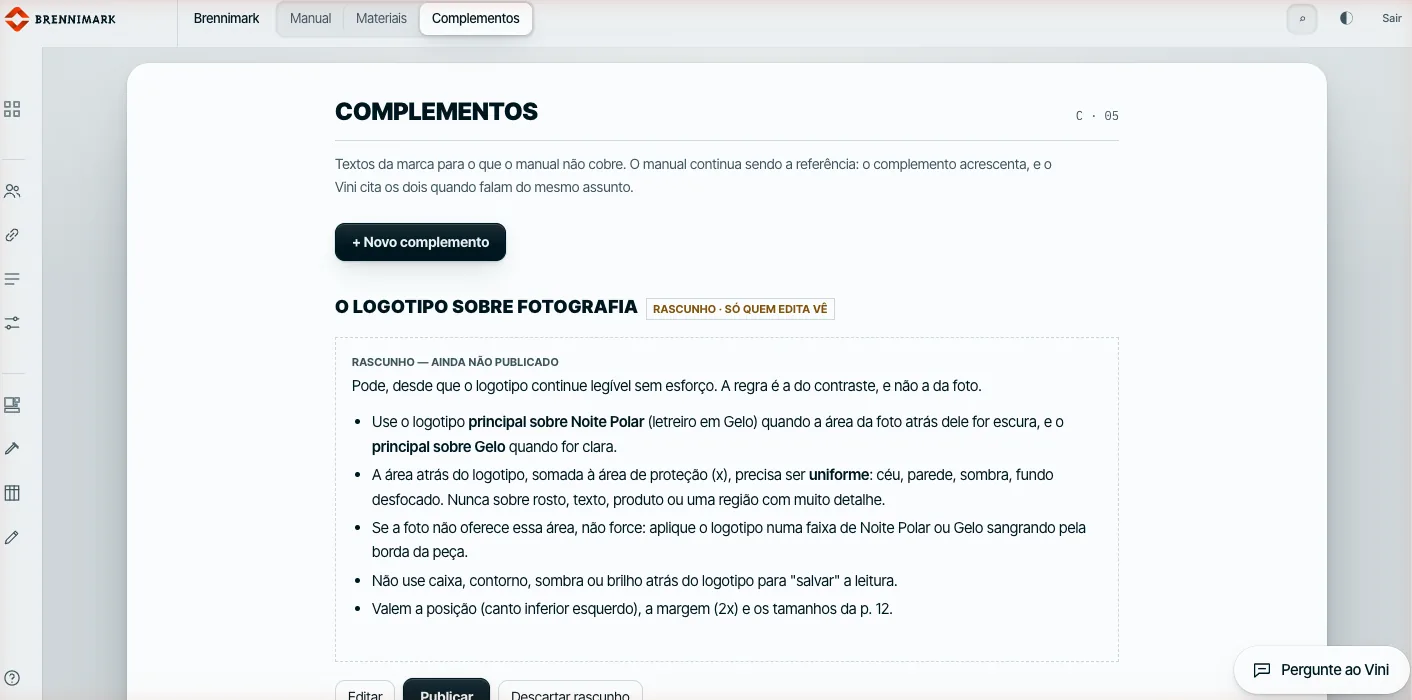
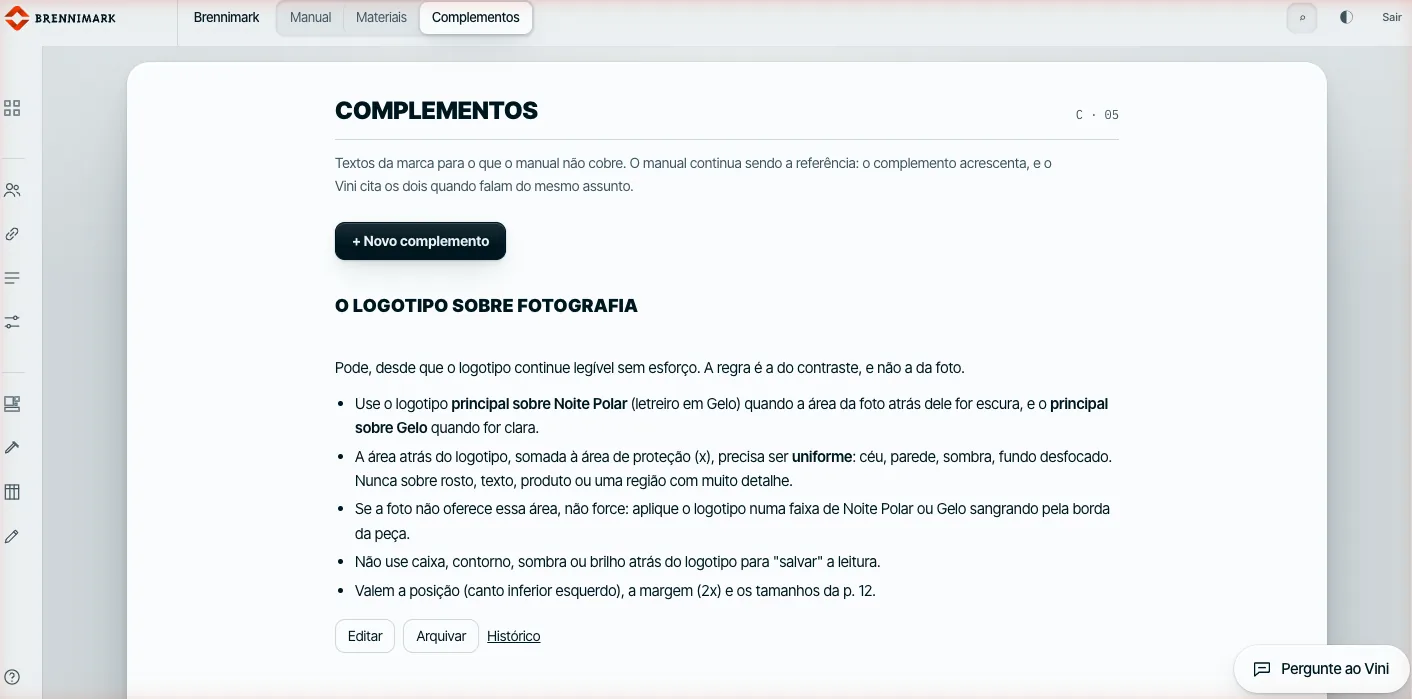
feat(site): Regras novas mostra a regra publicada e o Vini citando-a; lupas redesenhadas iguais às da plataforma
- Regras novas: a tela abre nos complementos já publicados e, em fade, passa
  para o assistente respondendo "posso colocar o logo em cima de uma foto?"
  e citando o complemento (selo PRONTO) ao lado da página do manual
  (selo RASCUNHO). Capturas de produção de 23/10.
- Lupas: um detalhe REDESENHADO em HTML, igual ao da plataforma (mesmos
  textos, cores e pesos de letra), ampliado para ler no tamanho do site; a
  captura é de 1x e ampliada borra. Na Regras novas (a citação) e na
  Revisão de peças (o selo "Desalinhada" e a violação de margem).
- `.troca`: segunda captura que entra em fade; sem movimento, a segunda é a
  que fica.

diff --git a/src/components/site/TelasDaHome.tsx b/src/components/site/TelasDaHome.tsx
@@ -1,5 +1,5 @@
 import Image, { type StaticImageData } from "next/image";
-import type { CSSProperties } from "react";
+import type { CSSProperties, ReactNode } from "react";
 import vini from "./imagens/vini.webp";
 import telaManual from "./imagens/telas/manual.webp";
 import telaAssistente from "./imagens/telas/assistente.webp";
@@ -8,6 +8,7 @@ import telaPrompt from "./imagens/telas/prompt.webp";
 import telaMateriais from "./imagens/telas/materiais.webp";
 import telaEnvio from "./imagens/telas/envio.webp";
 import telaComplementos from "./imagens/telas/complementos.webp";
+import telaViniComplemento from "./imagens/telas/vini-complemento.webp";
 
 /**
  * As telas do tour da home (22/10/2026): capturas REAIS da plataforma, feitas
@@ -47,30 +48,62 @@ function camera(foco: Foco | undefined, w: number, h: number): CSSProperties | u
   return { ...passo(foco.n), "--z": z, "--alvo": `translate(${tx}%, ${ty}%) scale(${z})` } as CSSProperties;
 }
 
-function TelaReal({ src, alt, destaques, foco }: { src: StaticImageData; alt: string; destaques: Destaque[]; foco?: Foco }) {
+type Quadro = { src: StaticImageData; alt: string; destaques: Destaque[]; foco?: Foco };
+
+function Camada({ src, alt, destaques, foco }: Quadro) {
   const pct = (v: number, total: number) => `${(v / total) * 100}%`;
   return (
+    <div className={foco ? "tela-camera" : "tela-quieta"} style={camera(foco, src.width, src.height)}>
+      <Image src={src} alt={alt} sizes="(max-width: 1023px) 100vw, 60vw" />
+      {destaques.map(({ caixa: [x0, y0, x1, y1], n, rotulo }) => (
+        <span
+          key={`${x0}-${y0}`}
+          className="destaque passo"
+          aria-hidden="true"
+          // O rótulo vai por baixo quando a caixa encosta no topo, e alinha
+          // pela direita quando ela está na metade direita da tela.
+          data-abaixo={y0 / src.height < 0.08 ? "" : undefined}
+          data-direita={x0 / src.width > 0.5 ? "" : undefined}
+          style={{ ...passo(n), left: pct(x0, src.width), top: pct(y0, src.height), width: pct(x1 - x0, src.width), height: pct(y1 - y0, src.height) }}
+        >
+          {rotulo ? <em>{rotulo}</em> : null}
+        </span>
+      ))}
+    </div>
+  );
+}
+
+/**
+ * Uma tela real, com destaques e câmera. `depois` é uma segunda captura que
+ * entra por cima, em fade, no passo `n` — a mesma tela noutro momento (a regra
+ * publicada e, em seguida, o assistente citando a regra). `lupa` é um detalhe
+ * REDESENHADO, fiel ao da plataforma (mesmos textos, cores e tamanhos de
+ * letra), ampliado para ler no tamanho em que o site mostra a tela.
+ */
+function TelaReal({ src, alt, destaques, foco, depois, lupa }: Quadro & { depois?: Quadro & { n: number }; lupa?: ReactNode }) {
+  return (
     <div className="frame tela-real">
-      <div className="tela-real-img">
-        <div className={foco ? "tela-camera" : undefined} style={camera(foco, src.width, src.height)}>
-          <Image src={src} alt={alt} sizes="(max-width: 1023px) 100vw, 60vw" />
-          {destaques.map(({ caixa: [x0, y0, x1, y1], n, rotulo }) => (
-            <span
-              key={`${x0}-${y0}`}
-              className="destaque passo"
-              aria-hidden="true"
-              // O rótulo vai por baixo quando a caixa encosta no topo, e alinha
-              // pela direita quando ela está na metade direita da tela.
-              data-abaixo={y0 / src.height < 0.08 ? "" : undefined}
-              data-direita={x0 / src.width > 0.5 ? "" : undefined}
-              style={{ ...passo(n), left: pct(x0, src.width), top: pct(y0, src.height), width: pct(x1 - x0, src.width), height: pct(y1 - y0, src.height) }}
-            >
-              {rotulo ? <em>{rotulo}</em> : null}
-            </span>
-          ))}
-        </div>
+      <div className="tela-real-img" style={{ aspectRatio: `${src.width} / ${src.height}` }}>
+        <Camada src={src} alt={alt} destaques={destaques} foco={foco} />
+        {depois ? (
+          <div className="troca" style={passo(depois.n)}>
+            <Camada src={depois.src} alt={depois.alt} destaques={depois.destaques} foco={depois.foco} />
+          </div>
+        ) : null}
+        {lupa}
       </div>
     </div>
+  );
+}
+
+/** O trecho de uma resposta do assistente, como a plataforma o desenha. */
+function Citacao({ rotulo, titulo, selo, tom }: { rotulo?: string; titulo: string; selo: string; tom: "ok" | "rascunho" }) {
+  return (
+    <a className="cita" aria-hidden="true" tabIndex={-1}>
+      {rotulo ? <span className="mut">{rotulo}</span> : null}
+      <span>{titulo}</span>
+      <b className={tom}>{selo}</b>
+    </a>
   );
 }
 
@@ -108,13 +141,19 @@ export function TelaAnalise() {
   return (
     <TelaReal
       src={telaRevisao}
-      foco={{ caixa: [810, 60, 1412, 520], n: 0.4 }}
       alt="A revisão de um post: o assistente marca a peça como desalinhada, com o logotipo grande demais e encostado na borda, citando a página 12"
       destaques={[
         { caixa: [1018, 76, 1187, 202], n: 1, rotulo: "A peça enviada" },
         { caixa: [824, 244, 928, 276], n: 2.6 },
         { caixa: [838, 352, 1398, 502], n: 3.8, rotulo: "O que está fora da regra, e onde a regra está" },
       ]}
+      lupa={
+        <div className="lupa lupa-revisao passo" style={passo(6)} aria-hidden="true">
+          <span className="selo-vermelho">Desalinhada</span>
+          <p><b>Violação objetiva de margem:</b> o logotipo está praticamente encostado nas bordas inferior e esquerda, descumprindo a margem mínima de 2x{" "}
+            <Citacao titulo="O logotipo nas peças" rotulo="" selo="Rascunho" tom="rascunho" />.</p>
+        </div>
+      }
     />
   );
 }
@@ -165,13 +204,30 @@ export function TelaComplementos() {
   return (
     <TelaReal
       src={telaComplementos}
-      foco={{ caixa: [320, 280, 1140, 700], n: 0.4 }}
-      alt="Complementos: uma regra nova sobre o logotipo sobre fotografia, escrita em rascunho e à espera de aprovação"
+      foco={{ caixa: [320, 270, 1140, 699], n: 0.4 }}
+      alt="Complementos: uma regra nova sobre o logotipo sobre fotografia, já publicada, com os botões de editar, arquivar e ver o histórico"
       destaques={[
-        { caixa: [332, 292, 838, 324], n: 1, rotulo: "O que o manual não cobria" },
-        { caixa: [332, 334, 1122, 664], n: 2.6 },
-        { caixa: [400, 676, 494, 700], n: 4.4, rotulo: "Vale depois de aprovada" },
+        { caixa: [330, 288, 642, 324], n: 1, rotulo: "O que o manual não cobria" },
+        { caixa: [330, 350, 1124, 606], n: 2.4 },
+        { caixa: [330, 614, 550, 656], n: 3.8, rotulo: "Publicada: vale para a equipe" },
       ]}
+      depois={{
+        n: 5,
+        src: telaViniComplemento,
+        alt: "O assistente responde se o logotipo pode ficar sobre uma foto e cita a regra nova, marcada como pronta, ao lado da página do manual",
+        destaques: [
+          { caixa: [984, 306, 1296, 340], n: 5.8, rotulo: "Cita a regra nova" },
+          { caixa: [984, 366, 1212, 398], n: 7 },
+        ],
+      }}
+      lupa={
+        <div className="lupa lupa-vini passo" style={passo(7.6)} aria-hidden="true">
+          <p>Sim, pode, desde que o logotipo continue legível sem esforço{" "}
+            <Citacao rotulo="Complemento:" titulo="O logotipo sobre fotografia" selo="Pronto" tom="ok" />.</p>
+          <p>O manual não cobre essa regra{" "}
+            <Citacao titulo="O logotipo nas peças" selo="Rascunho" tom="rascunho" />, mas há um complemento específico para isso.</p>
+        </div>
+      }
     />
   );
 }

diff --git a/src/app/(site)/site.css b/src/app/(site)/site.css
@@ -1086,3 +1086,30 @@ body:has(.home-v){overflow:auto}
 .bm-site .tour[data-tocando] .tour-panel:not([hidden]) .tela-camera .destaque{border-width:calc(2px / var(--z,1));border-radius:calc(8px / var(--z,1));box-shadow:0 0 0 calc(4px / var(--z,1)) rgba(255,65,3,.16)}
 .bm-site .tour[data-tocando] .tour-panel:not([hidden]) .tela-camera .destaque em{font-size:calc(11px / var(--z,1));padding:calc(4px / var(--z,1)) calc(7px / var(--z,1));border-radius:calc(5px / var(--z,1));bottom:calc(100% + 4px / var(--z,1))}
 .bm-site .tour[data-tocando] .tour-panel:not([hidden]) .tela-camera .destaque[data-abaixo] em{bottom:auto;top:calc(100% + 4px / var(--z,1))}
+
+/* ---------- a segunda captura e as lupas (23/10/2026) ----------
+ * `.troca`: a mesma tela noutro momento, que entra por cima em fade. Sem
+ * movimento (ou sem JS), ela já está lá, e é a imagem que fica à vista.
+ * `.lupa`: um detalhe REDESENHADO igual ao da plataforma — mesmas cores e
+ * pesos de letra (Inter Tight, Noite Polar, o verde de "pronto" e o âmbar de
+ * "rascunho" são os tokens da moldura), só que maior. A captura é de 1x, e
+ * ampliada borra; o detalhe redesenhado fica nítido. */
+.bm-site .tela-real-img{position:relative}
+.bm-site .tela-real-img>.tela-quieta,.bm-site .tela-real-img>.tela-camera{position:relative}
+.bm-site .troca{position:absolute;inset:0;overflow:hidden;background:#fafcfd}
+.bm-site .troca .tela-quieta,.bm-site .troca .tela-camera{position:absolute;inset:0}
+.bm-site .troca img{width:100%;height:100%;object-fit:cover}
+:where(html[data-site-movimento]) .bm-site .tour .troca{opacity:0}
+.bm-site .tour[data-tocando] .tour-panel:not([hidden]) .troca{animation:bm-troca .7s var(--ease) calc(var(--p) * .8s) forwards}
+@keyframes bm-troca{from{opacity:0}to{opacity:1}}
+.bm-site .lupa{position:absolute;left:2.4%;bottom:7%;width:60%;padding:clamp(12px,2.2vw,20px) clamp(14px,2.4vw,22px);background:#fafcfd;color:#001621;border-radius:22px;box-shadow:inset 0 1px 0 rgba(255,255,255,.95),0 0 0 .5px rgba(0,22,33,.1),0 4px 8px -2px rgba(0,22,33,.1),0 22px 44px -12px rgba(0,22,33,.45);font:400 clamp(11.5px,1.55vw,16.5px)/1.6 var(--fonte-interface),system-ui,-apple-system,"Segoe UI",Roboto,Arial,sans-serif;text-align:left}
+.bm-site .lupa-revisao{width:52%}
+.bm-site .lupa p{margin:0}
+.bm-site .lupa p+p{margin-top:.7em}
+.bm-site .lupa .cita{display:inline-flex;flex-wrap:wrap;align-items:baseline;gap:.28em;margin:0 .14em;border-bottom:1px solid #d2dde2;font-weight:500;color:#001621;text-decoration:none}
+.bm-site .lupa .cita .mut{color:#465e68}
+.bm-site .lupa .cita b{font-size:.64em;font-weight:700;letter-spacing:.025em;text-transform:uppercase}
+.bm-site .lupa .cita b.ok{color:#39714c}
+.bm-site .lupa .cita b.rascunho{color:#8c5c0b}
+.bm-site .lupa .selo-vermelho{display:inline-block;margin-bottom:.7em;padding:.3em .7em;background:#a8453a;color:#fff;font-size:.68em;font-weight:700;letter-spacing:.03em;text-transform:uppercase}
+@media (max-width:767px){.bm-site .lupa{position:static;width:auto;margin:10px 0 0;font-size:13px;box-shadow:0 0 0 1px #d2dde2}.bm-site .lupa-revisao{width:auto}}
